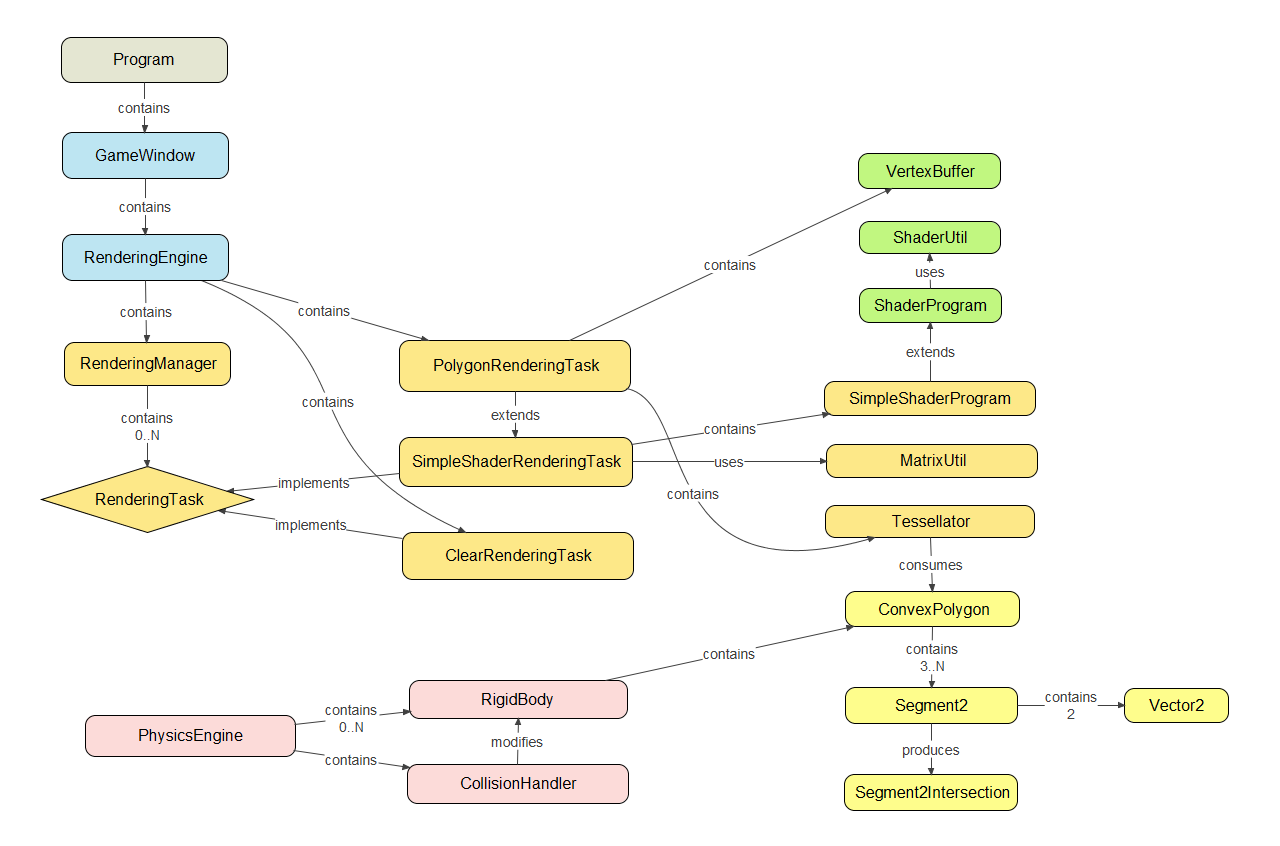
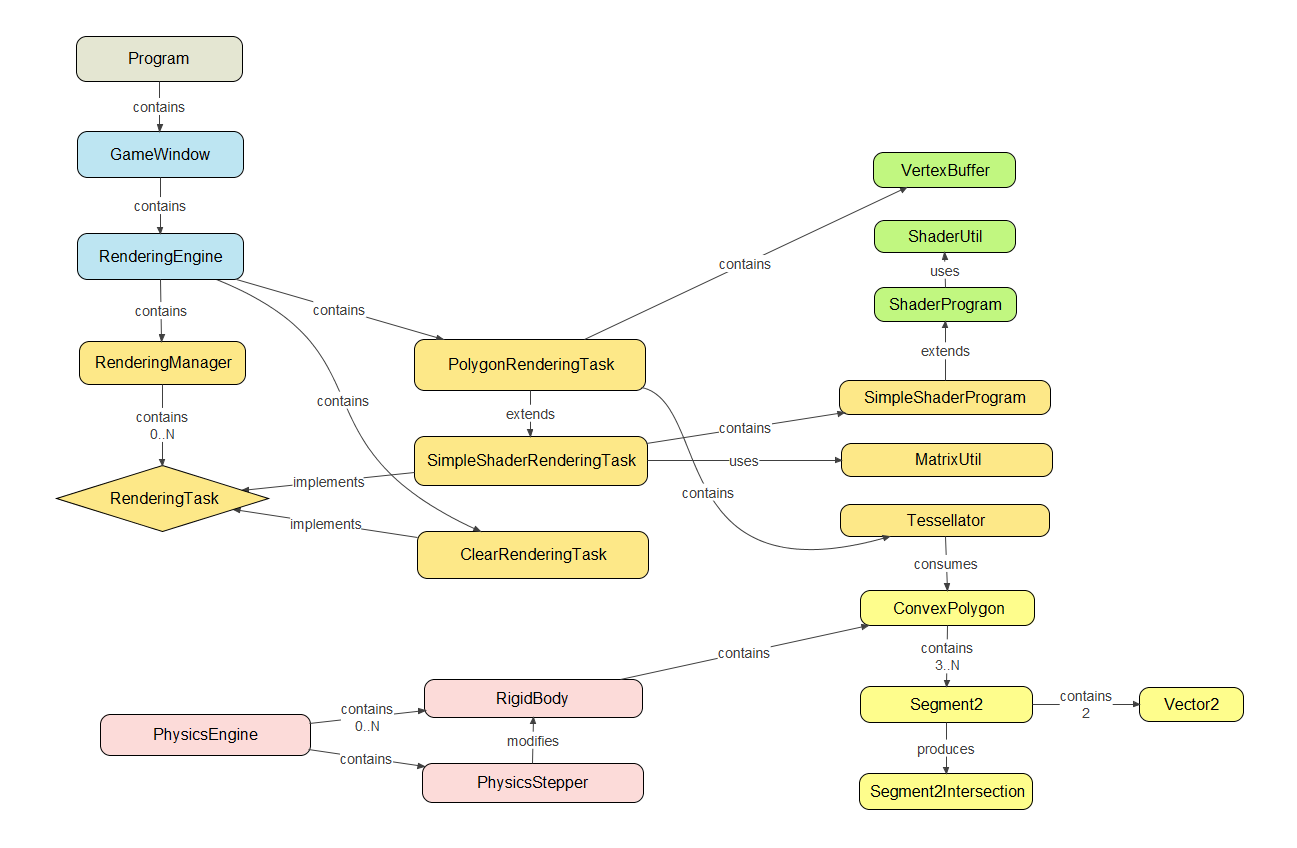
update documentation

diff --git a/doc/diagram.vue b/doc/diagram.vue
@@ -1,14 +1,14 @@
 <!-- Tufts VUE 3.2.2 concept-map (diagram.vue) 2015-04-11 -->
 <!-- Tufts VUE: http://vue.tufts.edu/ -->
 <!-- Do Not Remove: VUE mapping @version(1.1) jar:file:/C:/Program%20Files%20(x86)/VUE/VUE.jar!/tufts/vue/resources/lw_mapping_1_1.xml -->
-<!-- Do Not Remove: Saved date Sat Apr 11 15:19:22 EEST 2015 by Jani Salo on platform Windows 7 6.1 in JVM 1.7.0_21-b11 -->
+<!-- Do Not Remove: Saved date Sat Apr 11 21:26:50 EEST 2015 by Jani Salo on platform Windows 7 6.1 in JVM 1.7.0_21-b11 -->
 <!-- Do Not Remove: Saving version @(#)VUE: built May 23 2013 at 2146 by tomadm on Linux 2.6.18-348.2.1.el5 i386 JVM 1.7.0_21-b11(bits=32) -->
 <?xml version="1.0" encoding="US-ASCII"?>
 <LW-MAP xmlns:xsi="http://www.w3.org/2001/XMLSchema-instance"
     xsi:noNamespaceSchemaLocation="none" ID="0" label="diagram.vue"
     created="1426706341617" x="0.0" y="0.0" width="1.4E-45"
     height="1.4E-45" strokeWidth="0.0" autoSized="false">
-    <resource referenceCreated="1428754762826" size="27961"
+    <resource referenceCreated="1428776810104" size="30951"
         spec="C:\Workspace\projects\PolyBounce\doc\diagram.vue" type="1" xsi:type="URLResource">
         <title>diagram.vue</title>
         <property key="File" value="C:\Workspace\projects\PolyBounce\doc\diagram.vue"/>
@@ -475,7 +475,7 @@
         <ID1 xsi:type="node">79</ID1>
         <ID2 xsi:type="node">45</ID2>
     </child>
-    <child ID="81" label="CollisionHandler" layerID="1"
+    <child ID="81" label="PhysicsStepper" layerID="1"
         created="1428754627681" x="683.3501" y="1299.3752" width="221.0"
         height="39.0" strokeWidth="1.0" autoSized="false" xsi:type="node">
         <fillColor>#FCDBD9</fillColor>
@@ -496,7 +496,7 @@
         <shape arcwidth="20.0" archeight="20.0" xsi:type="roundRect"/>
     </child>
     <child ID="83" label="modifies" layerID="1" created="1428754679751"
-        x="767.77795" y="1253.3359" width="53.0" height="46.539062"
+        x="768.27795" y="1253.3359" width="52.0" height="46.539062"
         strokeWidth="1.0" autoSized="false" controlCount="0"
         arrowState="2" xsi:type="link">
         <strokeColor>#404040</strokeColor>

diff --git a/doc/hours.md b/doc/hours.md
@@ -1,6 +1,7 @@
 ### Week 5
-Total accumulated hours: 52
+Total accumulated hours: 54
 - 2015.04.11 /  ~2h: Work on rigid body physics and collision handler
+- 2015.04.11 /  ~2h: Rename collision handle physics stepper, add more physics code
 
 ### Week 4
 Total accumulated hours: 50
